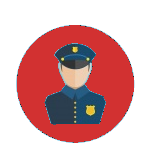
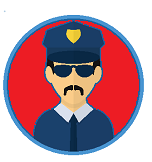
add waiter

diff --git a/src/components/Pages/Airport/index.js b/src/components/Pages/Airport/index.js
@@ -18,7 +18,7 @@ class Airport extends Component {
     this.handleClick = this.handleClick.bind(this);
     this.handleOpen = this.handleOpen.bind(this);
     this.getNextCity = this.getNextCity.bind(this);
-    this.state = { found: false, messvisible: false, messcolor: 'blue' };
+    this.state = { found: false, messvisible: false, messcolor: 'blue', factID : 0};
   }
 
   async getNextCity() {
@@ -29,13 +29,15 @@ class Airport extends Component {
   handleOpen() {
     if (this.props.moneyLeft - 5 >= 0) {
       this.props.dispatch(substractMoney(5));
+	  this.setState({ factID: this.state.factID + 1});
       this.setState({ messvisible: !this.state.messvisible });
-      this.setState({
+	  this.setState({
         message:
           findTextLang(this.props.playerLanguage,'airport_9a')
           + (this.props.moneyLeft - 5) +
           findTextLang(this.props.playerLanguage,'airport_9b'),
       });
+
     } else {
       this.setState({ messvisible: !this.state.messvisible });
       this.setState({ messcolor: 'red' });
@@ -94,7 +96,8 @@ class Airport extends Component {
     if (isLoading) {
       return <Spinner text="Loading city info" />;
     }
-
+	var cityFacts = currentCity.facts.map((fact) => findTextLang(playerLanguage,fact))
+	var cityFactsTotal = [' '].concat(cityFacts).concat([findTextLang(playerLanguage,'airport_waiterhint')])
     return (
       <Fragment>
         <Header />
@@ -137,11 +140,16 @@ class Airport extends Component {
               <Grid.Column>
                 <Card centered>
                   <Card.Content textAlign="center">
-                    <Card.Header>
-                      <img src="./images/shop.png" alt="./images/shop.png" />
-                    </Card.Header>
+                     <img src="./images/waiter.png" alt="Waiter" />
                     <Card.Meta />
-                    <Card.Description>{findTextLang(playerLanguage,'airport_5')}</Card.Description>
+                    <Card.Description><b>{findTextLang(playerLanguage,'airport_waiter')}</b>
+					<br/><br/>
+					{cityFactsTotal[this.state.factID]}
+					<br/><br/>
+					<Transition visible={this.state.factID >=4} duration={500}>
+                      <img src={`./images/${nextCity.flag}`} alt="country flag" />
+                    </Transition>
+					</Card.Description>
                   </Card.Content>
                   <Card.Content extra>
                     <Button color="green" size="large">
@@ -155,9 +163,7 @@ class Airport extends Component {
               <Grid.Column>
                 <Card centered>
                   <Card.Content textAlign="center">
-                    <Card.Header>
-                      <img src={`./${currentCity.hints[0].img}`} alt="Ciudad" />
-                    </Card.Header>
+                    <img src={`./${currentCity.hints[0].img}`} alt="Ciudad" />
                     <Card.Meta />
                     <Card.Description>
                       {findTextLang(playerLanguage,'airport_6')}

diff --git a/src/data/cities.js b/src/data/cities.js
@@ -4,6 +4,7 @@ export const CITIES = [
     police: 'POLIZEI',
     flag: 'countryFlags/GERM0001.GIF',
     food: 'Bratwurst',
+	facts: ['Fact1','Fact2','Fact3'],
     hints: [
       {
         label: 'Cathedral',
@@ -24,6 +25,7 @@ export const CITIES = [
     police: 'GENDARMERIE',
     flag: 'countryFlags/FRAN0001.GIF',
     food: 'Croissant',
+	facts: ['Fact1','Fact2','Fact3'],
     hints: [
       {
         label: 'Montmartre',
@@ -44,6 +46,7 @@ export const CITIES = [
     police: 'CARABINIERI',
     flag: 'countryFlags/ITAL0001.GIF',
     food: 'Pizza',
+	facts: ['Fact1','Fact2','Fact3'],
     hints: [
       {
         label: 'Colosseum',
@@ -64,7 +67,8 @@ export const CITIES = [
     police: 'GUARDIA CIVIL',
     flag: 'countryFlags/SPAN0001.GIF',
     food: 'Paella',
-    hints: [
+ 	facts: ['Fact1','Fact2','Fact3'],
+   hints: [
       {
         label: 'Retiro Park',
         img: 'images/cities/retiro.jpg',
@@ -84,7 +88,8 @@ export const CITIES = [
     police: 'Ελληνική Αστυνομία',
     flag: 'countryFlags/GREC0001.GIF',
     food: 'Ouzo',
-    hints: [
+ 	facts: ['Fact1','Fact2','Fact3'],
+   hints: [
       {
         label: 'Parthenon',
         img: 'images/cities/ath_part.jpg',
@@ -104,7 +109,8 @@ export const CITIES = [
     police: 'POLITIE',
     flag: 'countryFlags/NETH0001.GIF',
     food: 'Heineken',
-    hints: [
+ 	facts: ['Fact1','Fact2','Fact3'],
+   hints: [
       {
         label: 'Vondelpark',
         img: 'images/cities/ams_vondelpark.jpg',
@@ -124,6 +130,7 @@ export const CITIES = [
     police: 'POLITI',
     flag: 'countryFlags/NORW0001.GIF',
     food: 'Smoked Salmon',
+	facts: ['Fact1','Fact2','Fact3'],
     hints: [
       {
         label: 'Vigeland Park',
@@ -144,7 +151,8 @@ export const CITIES = [
     police: 'POLICJA',
     flag: 'countryFlags/POLA0001.GIF',
     food: 'Pierogi',
-    hints: [
+ 	facts: ['Fact1','Fact2','Fact3'],
+   hints: [
       {
         label: 'Old Towm',
         img: 'images/cities/kra_oldtown.jpg',
@@ -164,7 +172,8 @@ export const CITIES = [
     police: 'POLICIE',
     flag: 'countryFlags/CZEC0001.GIF',
     food: 'Trdelnik',
-    hints: [
+ 	facts: ['Fact1','Fact2','Fact3'],
+   hints: [
       {
         label: 'Old Square',
         img: 'images/cities/prg_oldsquare.jpg',

diff --git a/src/data/texts.js b/src/data/texts.js
@@ -3,6 +3,18 @@ export const TEXTS = [
     language: 'en',
     texts: [
       {
+        label: 'Fact1',
+        text: 'Did you know Berlin has more Döner Kebap shops than Istanbul ?',
+      },
+      {
+        label: 'Fact2',
+        text: 'Did you know the Berliner Fernsehturm is the tallest building in Germany with 368 meters ?',
+      },
+      {
+        label: 'Fact3',
+        text: 'Did you know Berlin has more museums (180) than rainy days (108) ?',
+      },
+      {
         label: 'Berlin',
         text: 'Berlin',
       },
@@ -136,7 +148,7 @@ export const TEXTS = [
       },
       {
         label: 'airport_9a',
-        text: 'It was delicious and you feel recovered. You have now',
+        text: 'It was delicious and you feel recovered. You have now ',
       },
       {
         label: 'airport_9b',
@@ -165,6 +177,14 @@ export const TEXTS = [
       {
         label: 'airport_13',
         text: 'You spent 30 € on tickets. You now have ',
+      },
+      {
+        label: 'airport_waiter',
+        text: 'What can I do for you? ',
+      },
+      {
+        label: 'airport_waiterhint',
+        text: 'A guy talking about some stolen gold took a flight with this flag on it ',
       },
       {
         label: 'airport_found1',
@@ -279,6 +299,18 @@ export const TEXTS = [
   {
     language: 'es',
     texts: [
+      {
+        label: 'Fact1',
+        text: ' ¿Sabias que Berlin tiene mas Döner Kebap que Estambul?',
+      },
+      {
+        label: 'Fact2',
+        text: '¿Sabias que la Fernsehturm de Berlin es el edificio mas alto de Alemania con 368 metros?',
+      },
+      {
+        label: 'Fact3',
+        text: '¿Sabias que Berlin tiene mas museos (180) que dias de lluvia (108) ?',
+      },
       {
         label: 'Berlin',
         text: 'Berlin',
@@ -450,6 +482,14 @@ export const TEXTS = [
       {
         label: 'airport_found2',
         text: '¡¡ O Greeny esta muy contento de recuperar su oro !! ',
+      },
+      {
+        label: 'airport_waiter',
+        text: '¿En que puedo ayudarte? ',
+      },
+      {
+        label: 'airport_waiterhint',
+        text: 'Alguien que hablaba sobre un oro robado se subio a un avion con esta bandera ',
       },
       {
         label: 'profile_hello',
